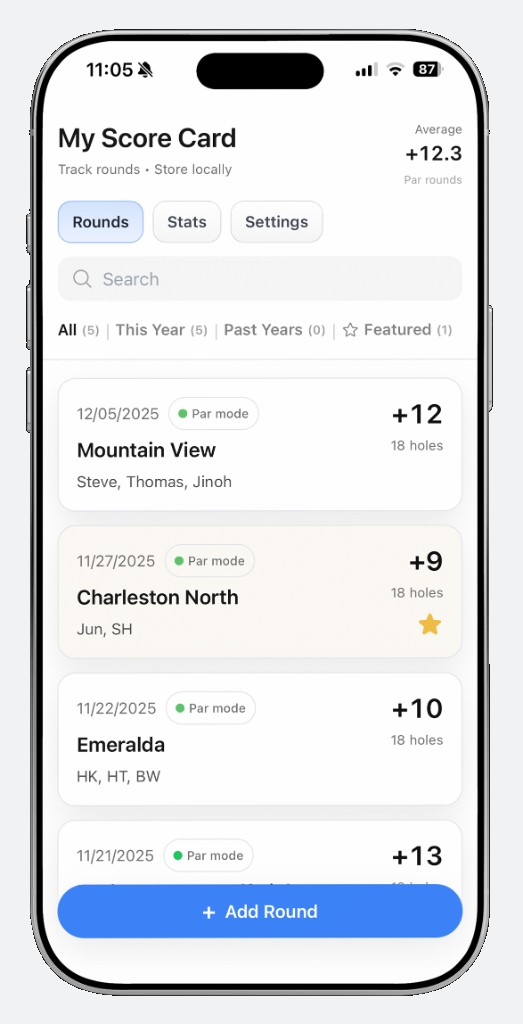
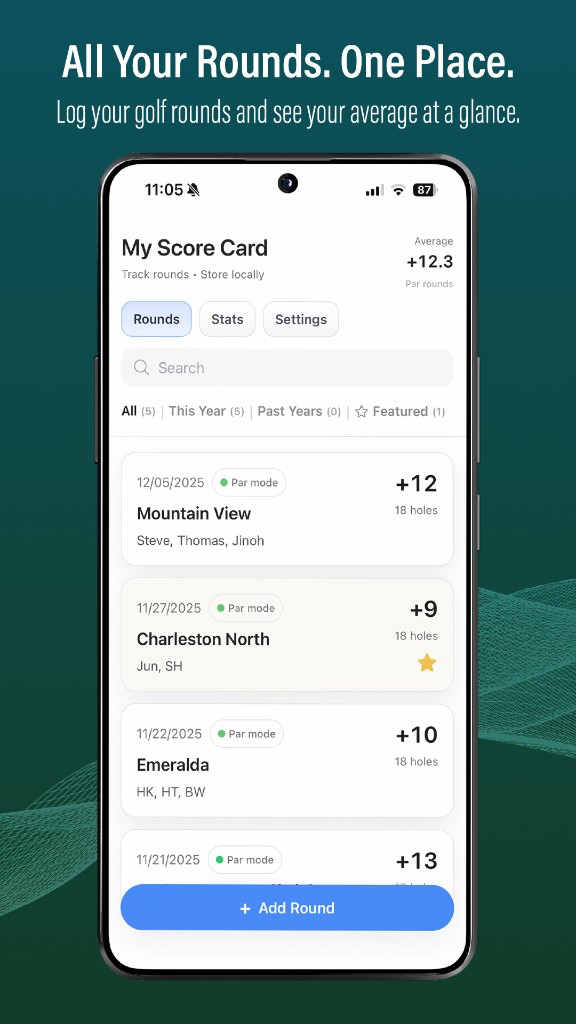
Replace Score Card shots with store art and label Practice as AI.

diff --git a/work/my-score-card-golf.html b/work/my-score-card-golf.html
@@ -86,24 +86,21 @@
         </article>
       </div>
 
-      <div class="device-gallery" data-lightbox>
+      <div class="device-gallery device-gallery--three" data-lightbox>
         <button type="button" class="shot" data-lightbox-item>
-          <img src="../img/work/my-golf-score-card/rounds.png" alt="My Score Card round list on iPhone, with courses, par-mode scores, search, and Add Round" />
+          <img src="../img/work/my-golf-score-card/rounds.png" alt="All Your Rounds. One Place. My Score Card round list with courses, averages, and Add Round." />
         </button>
         <button type="button" class="shot" data-lightbox-item>
-          <img src="../img/work/my-golf-score-card/score.png" alt="Hole-by-hole round score on iPhone, with putts at Suneagles in Stroke mode" />
+          <img src="../img/work/my-golf-score-card/score.png" alt="Tap. Score. Move On. Hole-by-hole round score with putts at Suneagles." />
         </button>
         <button type="button" class="shot" data-lightbox-item>
-          <img src="../img/work/my-golf-score-card/stats.png" alt="Statistics on iPhone, with score distribution histogram in Par mode" />
+          <img src="../img/work/my-golf-score-card/stats.png" alt="See Your Game Clearly. Statistics with a score distribution histogram in Par mode." />
         </button>
         <button type="button" class="shot" data-lightbox-item>
-          <img src="../img/work/my-golf-score-card/settings.png" alt="Settings on iPhone for scoring mode, color reference, and JSON backup" loading="lazy" />
+          <img src="../img/work/my-golf-score-card/settings.png" alt="Your Data, Always Yours. Settings for scoring mode, color reference, and JSON backup." loading="lazy" />
         </button>
         <button type="button" class="shot" data-lightbox-item>
-          <img src="../img/work/my-golf-score-card/dark.png" alt="Dark Mode settings on iPhone, with scoring mode and language" loading="lazy" />
-        </button>
-        <button type="button" class="shot" data-lightbox-item>
-          <img src="../img/work/my-golf-score-card/languages.png" alt="Language menu on iPhone with English, Korean, Chinese, and more" loading="lazy" />
+          <img src="../img/work/my-golf-score-card/dark.png" alt="Play It Your Way. Dark Mode, language, and default scoring mode on iPhone." loading="lazy" />
         </button>
       </div>
 

diff --git a/css/site.css b/css/site.css
@@ -675,6 +675,11 @@ main.section {
   gap: 16px;
 }
 
+.device-gallery--three {
+  grid-template-columns: repeat(3, minmax(0, 1fr));
+  gap: 16px;
+}
+
 .device-gallery .shot {
   height: auto;
   display: block;
@@ -926,6 +931,7 @@ body.lightbox-open { overflow: hidden; }
 
   .device-gallery { grid-template-columns: 1fr 1fr; }
   .device-gallery--two { grid-template-columns: 1fr 1fr; }
+  .device-gallery--three { grid-template-columns: 1fr 1fr; }
   .feature-grid { grid-template-columns: 1fr; }
 
   .hero { padding: calc(64px + var(--header-h)) 0 72px; }

diff --git a/index.html b/index.html
@@ -122,7 +122,7 @@
         </div>
         <div class="keyword-grid reveal">
           <article class="keyword-card">
-            <h3>Gen AI</h3>
+            <h3>AI</h3>
             <p>Using AI where it sharpens research, exploration, and production – without letting it decide the product.</p>
           </article>
           <article class="keyword-card">
